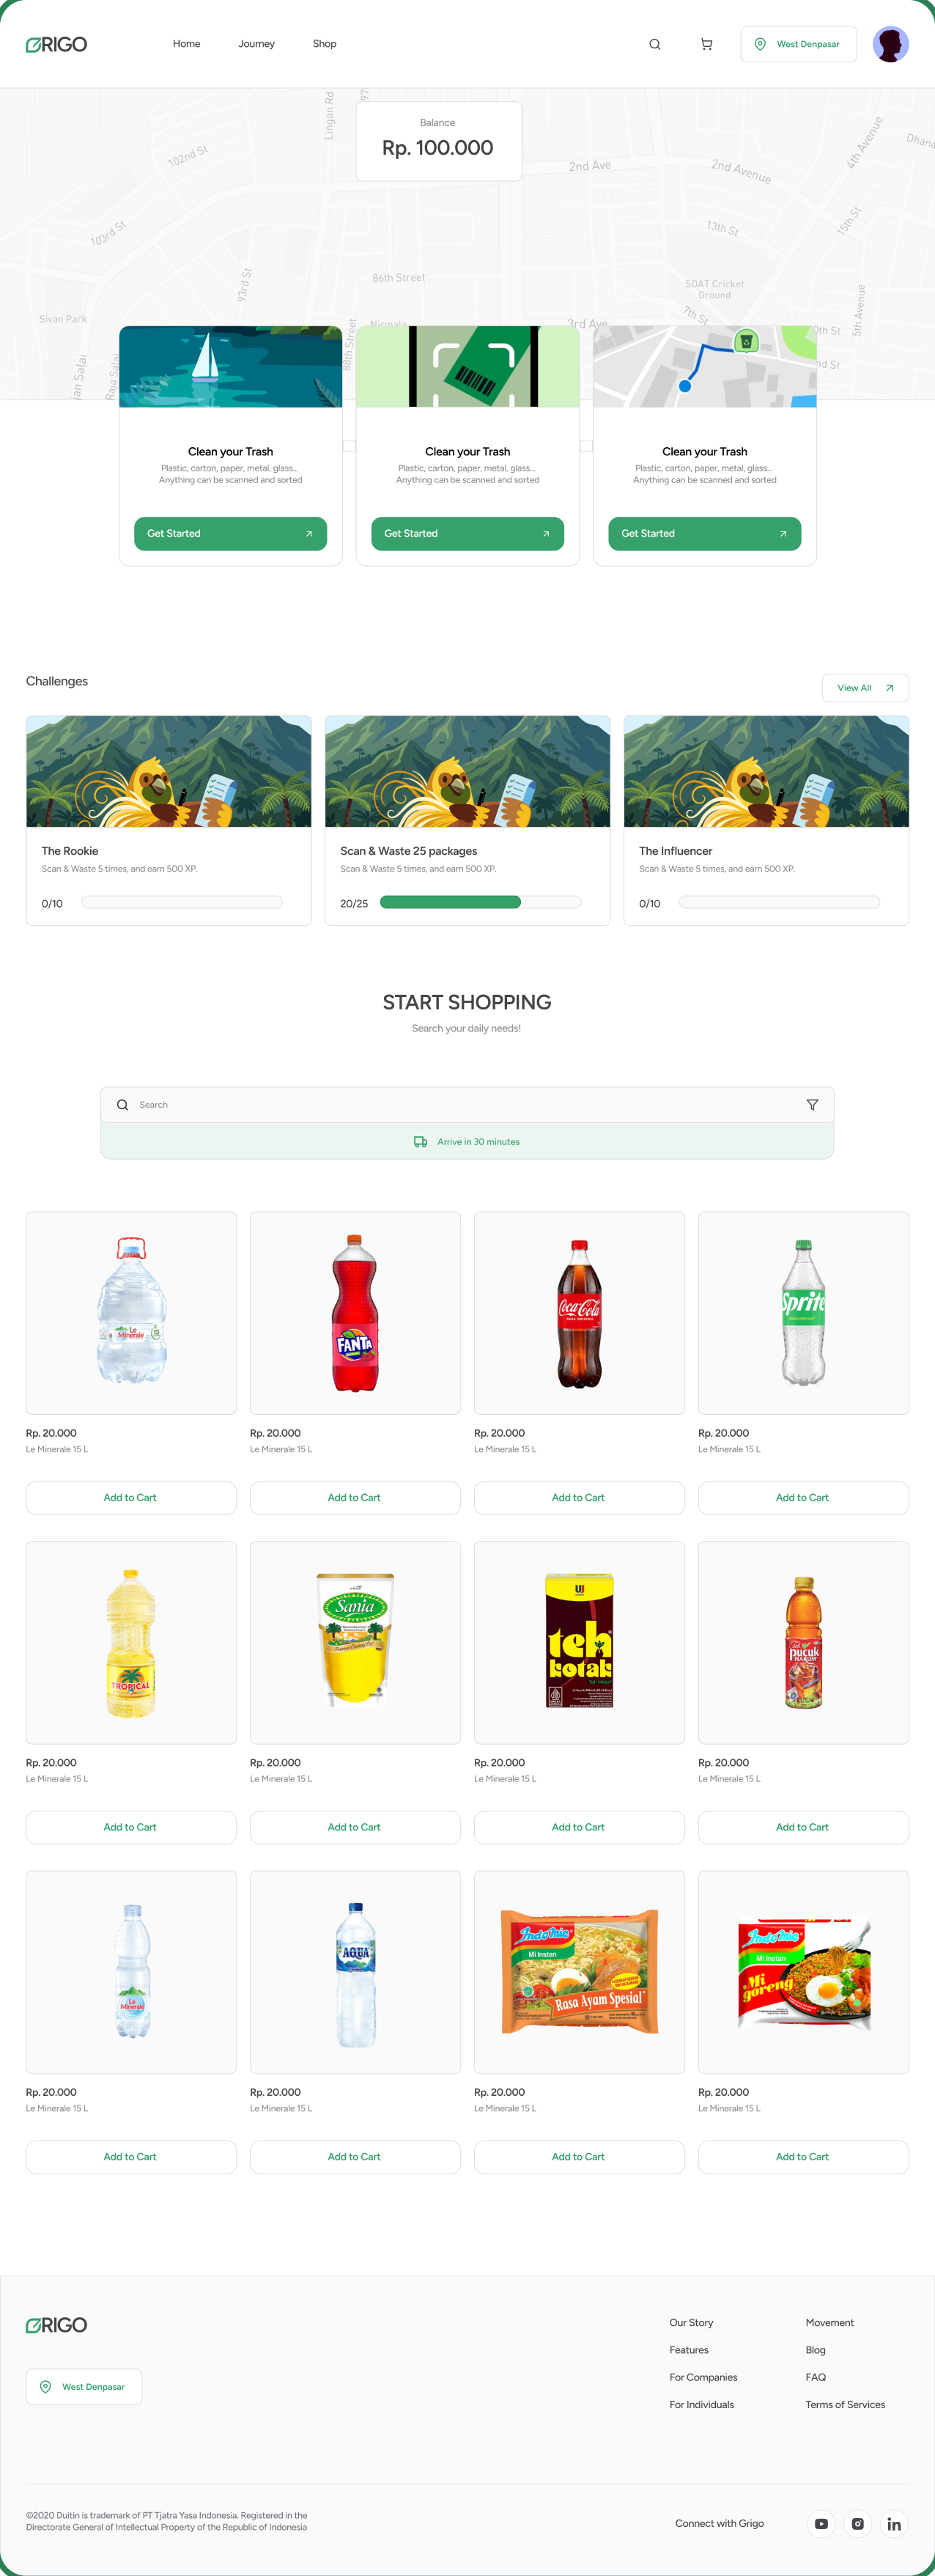
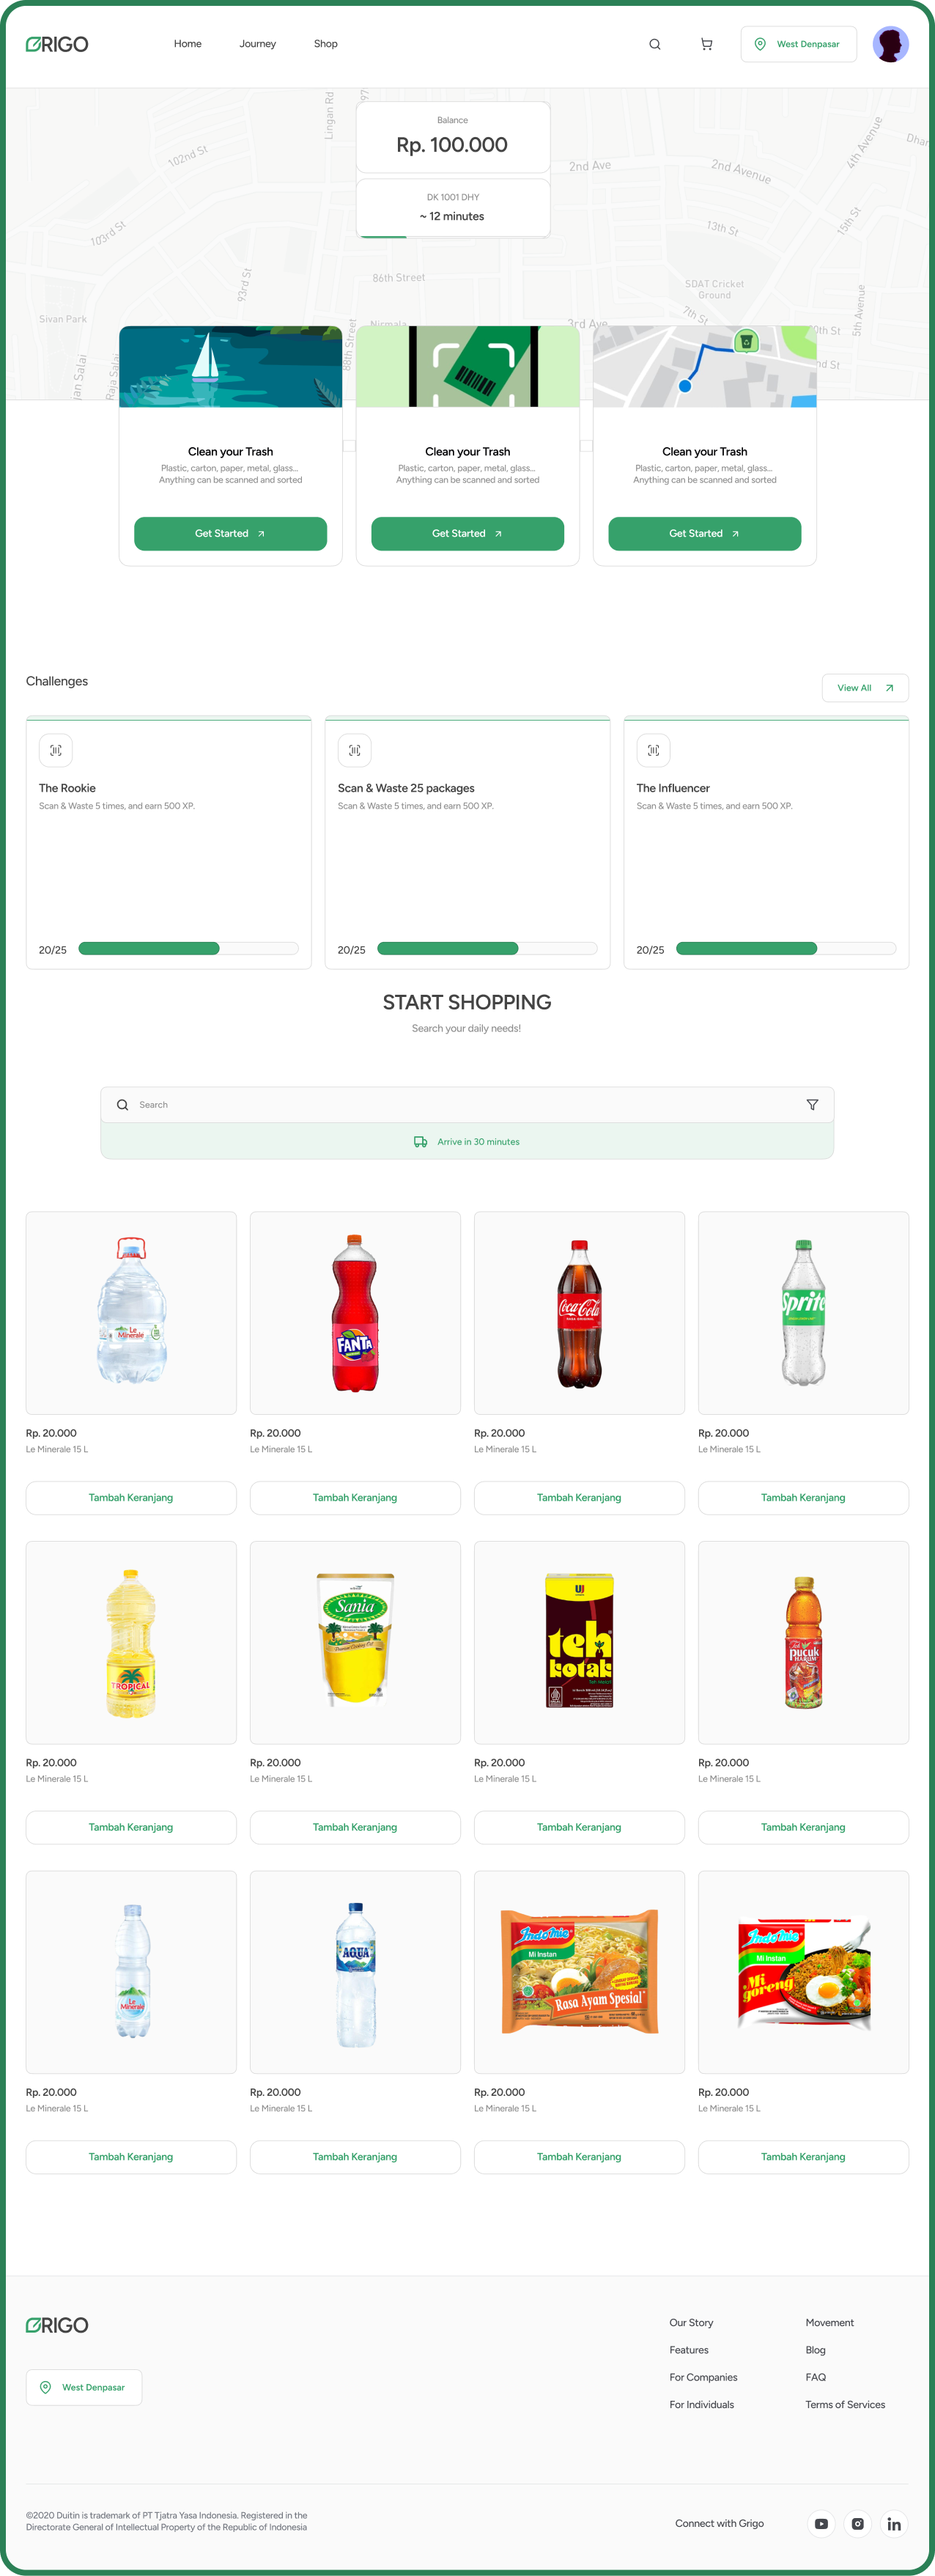
style: fixing micro ui ux bug

diff --git a/src/view/HomePage/FAQ.tsx b/src/view/HomePage/FAQ.tsx
@@ -9,25 +9,24 @@ export default function FAQ() {
     const FAQData = [
         {
             title: "Sampah apa saja yang diterima?",
-            content:"Yes. It adheres to the WAI-ARIA design pattern."
+            content: "Kami menerima berbagai jenis sampah anorganik seperti plastik (botol, kantong, kemasan), kertas dan kardus, logam (kaleng, besi, aluminium), kaca, serta elektronik bekas (handphone, kabel, baterai). Untuk sampah organik seperti sisa makanan, saat ini kami belum melayani penjemputan — namun kamu bisa mengolahnya menjadi kompos di rumah."
         },
         {
             title: "Apakah ada batas minimum penjemputan?",
-            content:"Yes. It adheres to the WAI-ARIA design pattern."
+            content: "Ya, kami menetapkan berat minimum 2 kg per penjemputan agar proses logistik tetap efisien. Jika sampahmu belum mencapai 2 kg, kamu bisa menabungnya terlebih dahulu dan menjadwalkan penjemputan saat sudah cukup — atau kamu bisa langsung mengantarkan ke drop point terdekat tanpa batas minimum."
         },
         {
             title: "Apakah saya harus memilah sampah sendiri?",
-            content:"Yes. It adheres to the WAI-ARIA design pattern."
+            content: "Sebaiknya iya. Pemilahan sederhana — seperti memisahkan plastik, kertas, dan logam — sangat membantu proses daur ulang dan mempercepat verifikasi saat penjemputan. Namun jika kamu belum terbiasa, tim kami tetap akan membantu memilah di lokasi, meski proses penjemputan mungkin memakan waktu sedikit lebih lama."
         },
         {
-            title: "Sampah apa saja yang diterima?",
-            content:"Yes. It adheres to the WAI-ARIA design pattern."
+            title: "Berapa lama proses penjemputan setelah pemesanan?",
+            content: "Setelah kamu menjadwalkan penjemputan, petugas kami biasanya tiba dalam 1–2 hari kerja. Kamu akan mendapat notifikasi konfirmasi beserta estimasi waktu kedatangan melalui aplikasi atau WhatsApp. Untuk area di luar jangkauan rutin, waktu penjemputan bisa mencapai 3–4 hari kerja."
         },
         {
             title: "Bagaimana cara menghitung poinnya?",
-            content:"Yes. It adheres to the WAI-ARIA design pattern."
+            content: "Poin dihitung berdasarkan jenis dan berat sampah yang kamu setorkan. Sebagai gambaran: plastik mendapat 10 poin/kg, kertas 8 poin/kg, logam 15 poin/kg, dan elektronik dihitung per item. Poin yang terkumpul bisa ditukarkan dengan saldo e-wallet, voucher belanja, atau donasikan ke program lingkungan pilihan kami."
         },
-
     ]
 
     return (

diff --git a/src/components/common/RigoCard.tsx b/src/components/common/RigoCard.tsx
@@ -17,7 +17,7 @@ export default function WWSCard({ title, date, desc, volume}: WWSCardProps   ) {
                 <h1 className="display text-text-action font-bold w-fit mx-auto"> 
                     {volume}
                 </h1>
-                <p className="md-default text-text-placeholder text-center">{desc}</p>
+                <p className="md-default text-text-placeholder text-center mt-2">{desc}</p>
             </div>
         </div>
     )

diff --git a/src/components/ui/button/RigoButton.tsx b/src/components/ui/button/RigoButton.tsx
@@ -2,7 +2,7 @@ import type { RIGOBTNPROPS } from "../../../type/type"
 
 export default function RigoButton({ inv, text, icon = true, onClick, disabled, fullWidth }: RIGOBTNPROPS) {
     return (
-        <button disabled={disabled} onClick={onClick} className={`${inv ? "bg-surface-primary border border-border-action" : "bg-white border border-border-default"} disabled:border-0 disabled:bg-surface-disabled ${fullWidth ? "w-full" : "w-full md:w-45"} h-11 md:h-14 flex items-center justify-between px-6 rounded-2xl`}>
+        <button disabled={disabled} onClick={onClick} className={`${inv ? "bg-surface-primary border border-border-action hover:bg-icon-action-hover" : "bg-white border border-border-default hover:border-border-action-hover"} disabled:border-0 disabled:bg-surface-disabled ${fullWidth ? "w-full" : "w-full md:w-45"} h-11 md:h-14 flex items-center justify-between px-6 rounded-2xl`}>
             <h1 className={`w-fit h-fit items-center font-bold label-semibold ${inv ? "text-neutral-white disabled:text-text-disabled" : "text-text-action"} ${icon ? "" : "mx-auto"}`}>{text}</h1>
             <svg width="20" height="20" viewBox="0 0 20 20" fill="none" xmlns="http://www.w3.org/2000/svg" className={`my-3 ${icon ? "block" : "hidden"}`}>
                 <path d="M7.5 15L12.5 10L7.5 5" stroke={`${inv ? "#FFFFFF" : "#36A16B"}`} strokeWidth="2" strokeLinecap="round" strokeLinejoin="round"/>